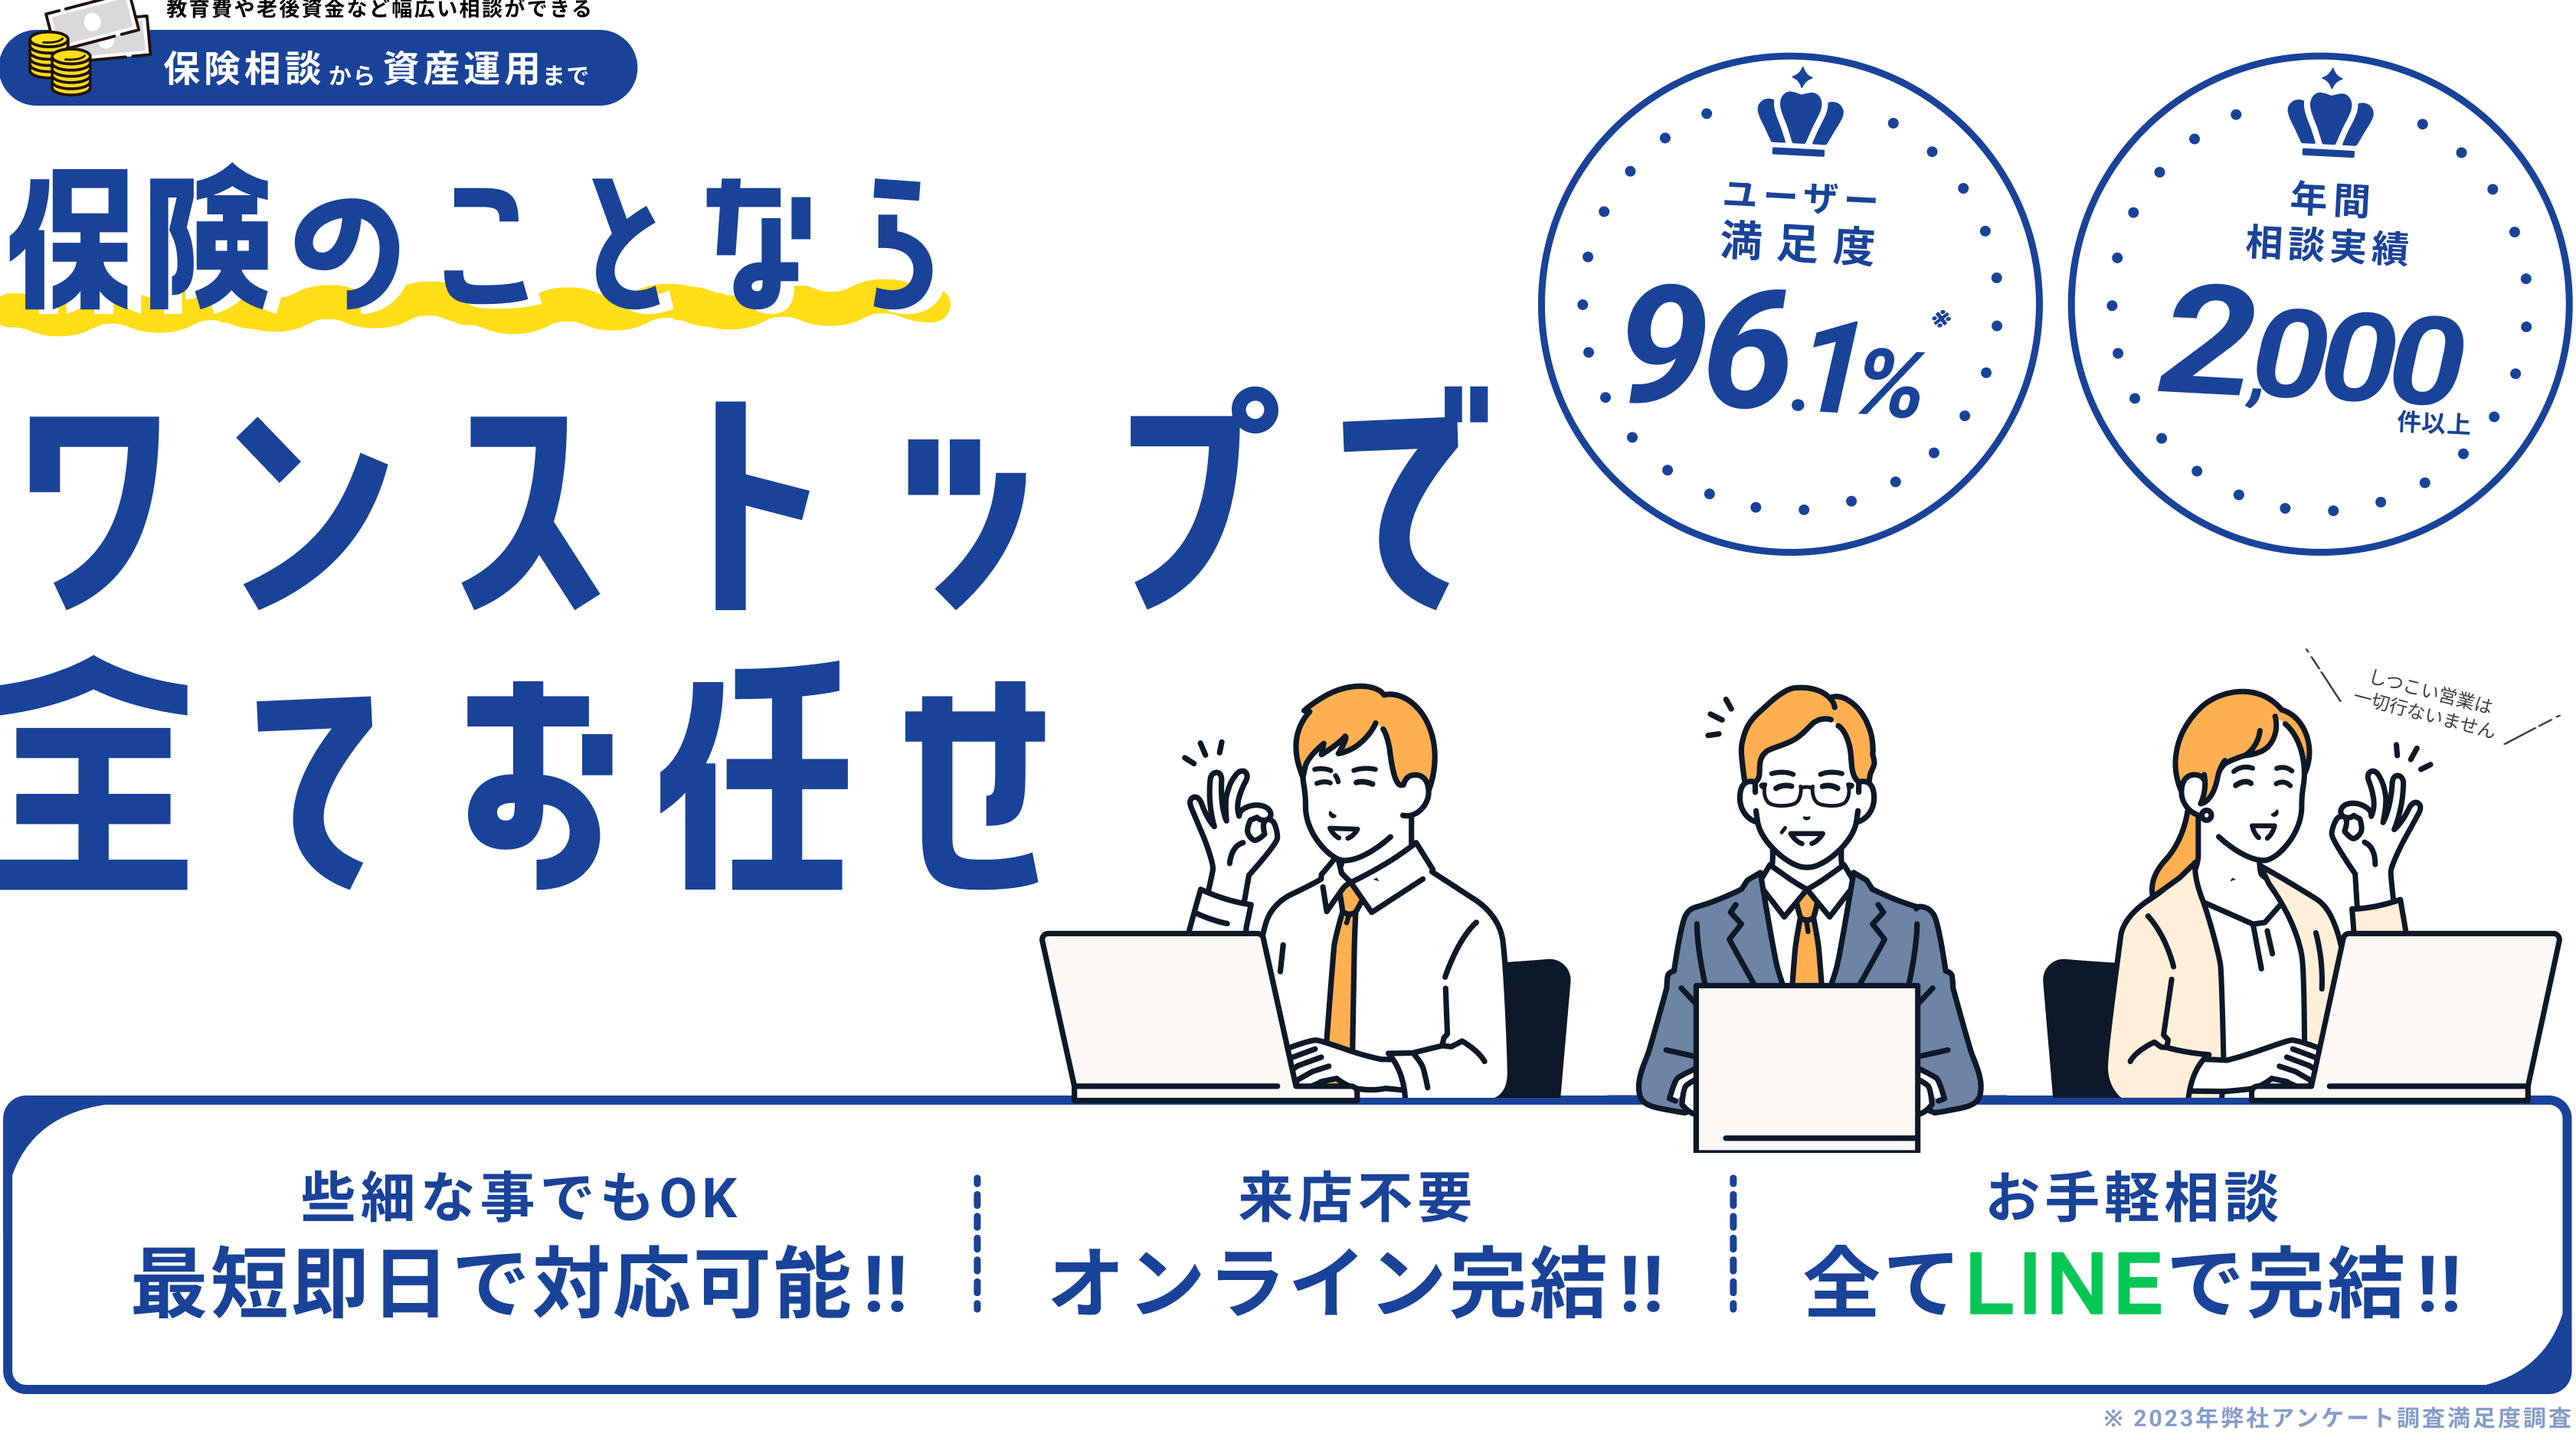
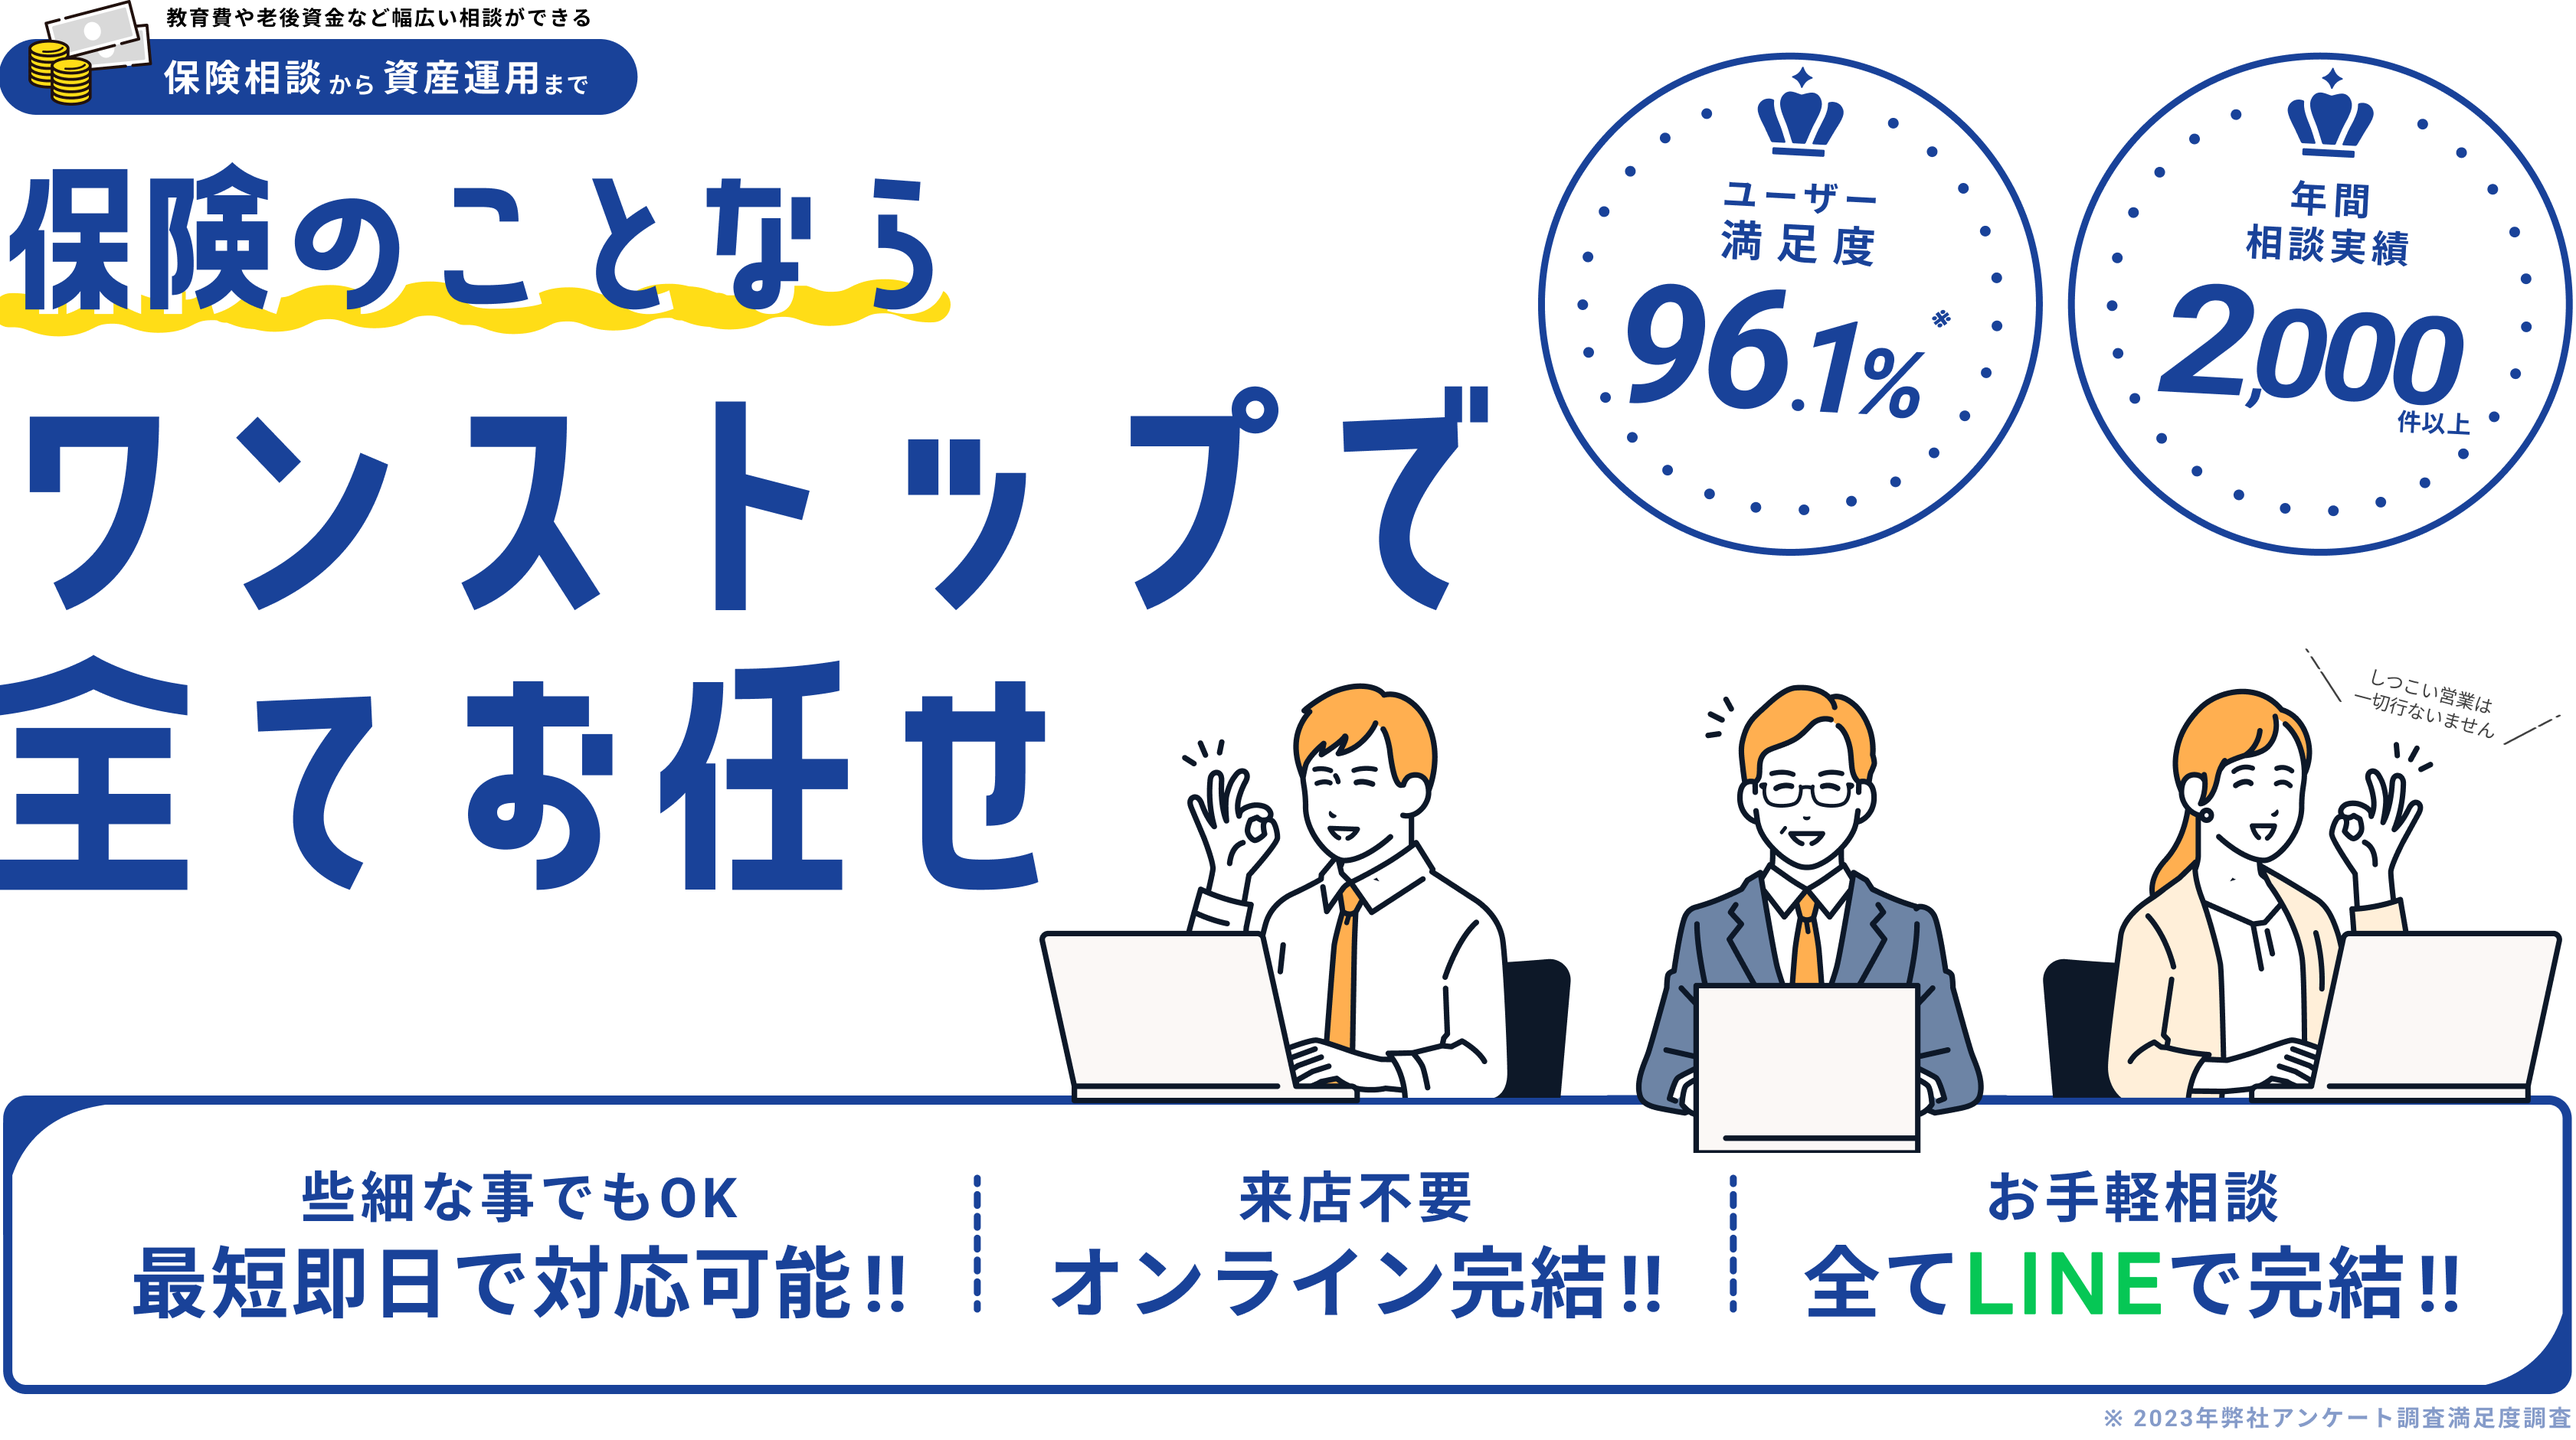
微調整

Changed region(s): [[0.0, 0.0, 0.2498, 0.0925]]

diff --git a/index.html b/index.html
@@ -77,7 +77,7 @@
 
 
     <!-- コンテンツ -->
-    <main class="c-container mgt2 mgt10s">
+    <main class="c-container mgt4 mgt10s">
 
         <!-- ファーストビュー -->
         <div class="c-contents -imgBg -bg-lightBlue01">
